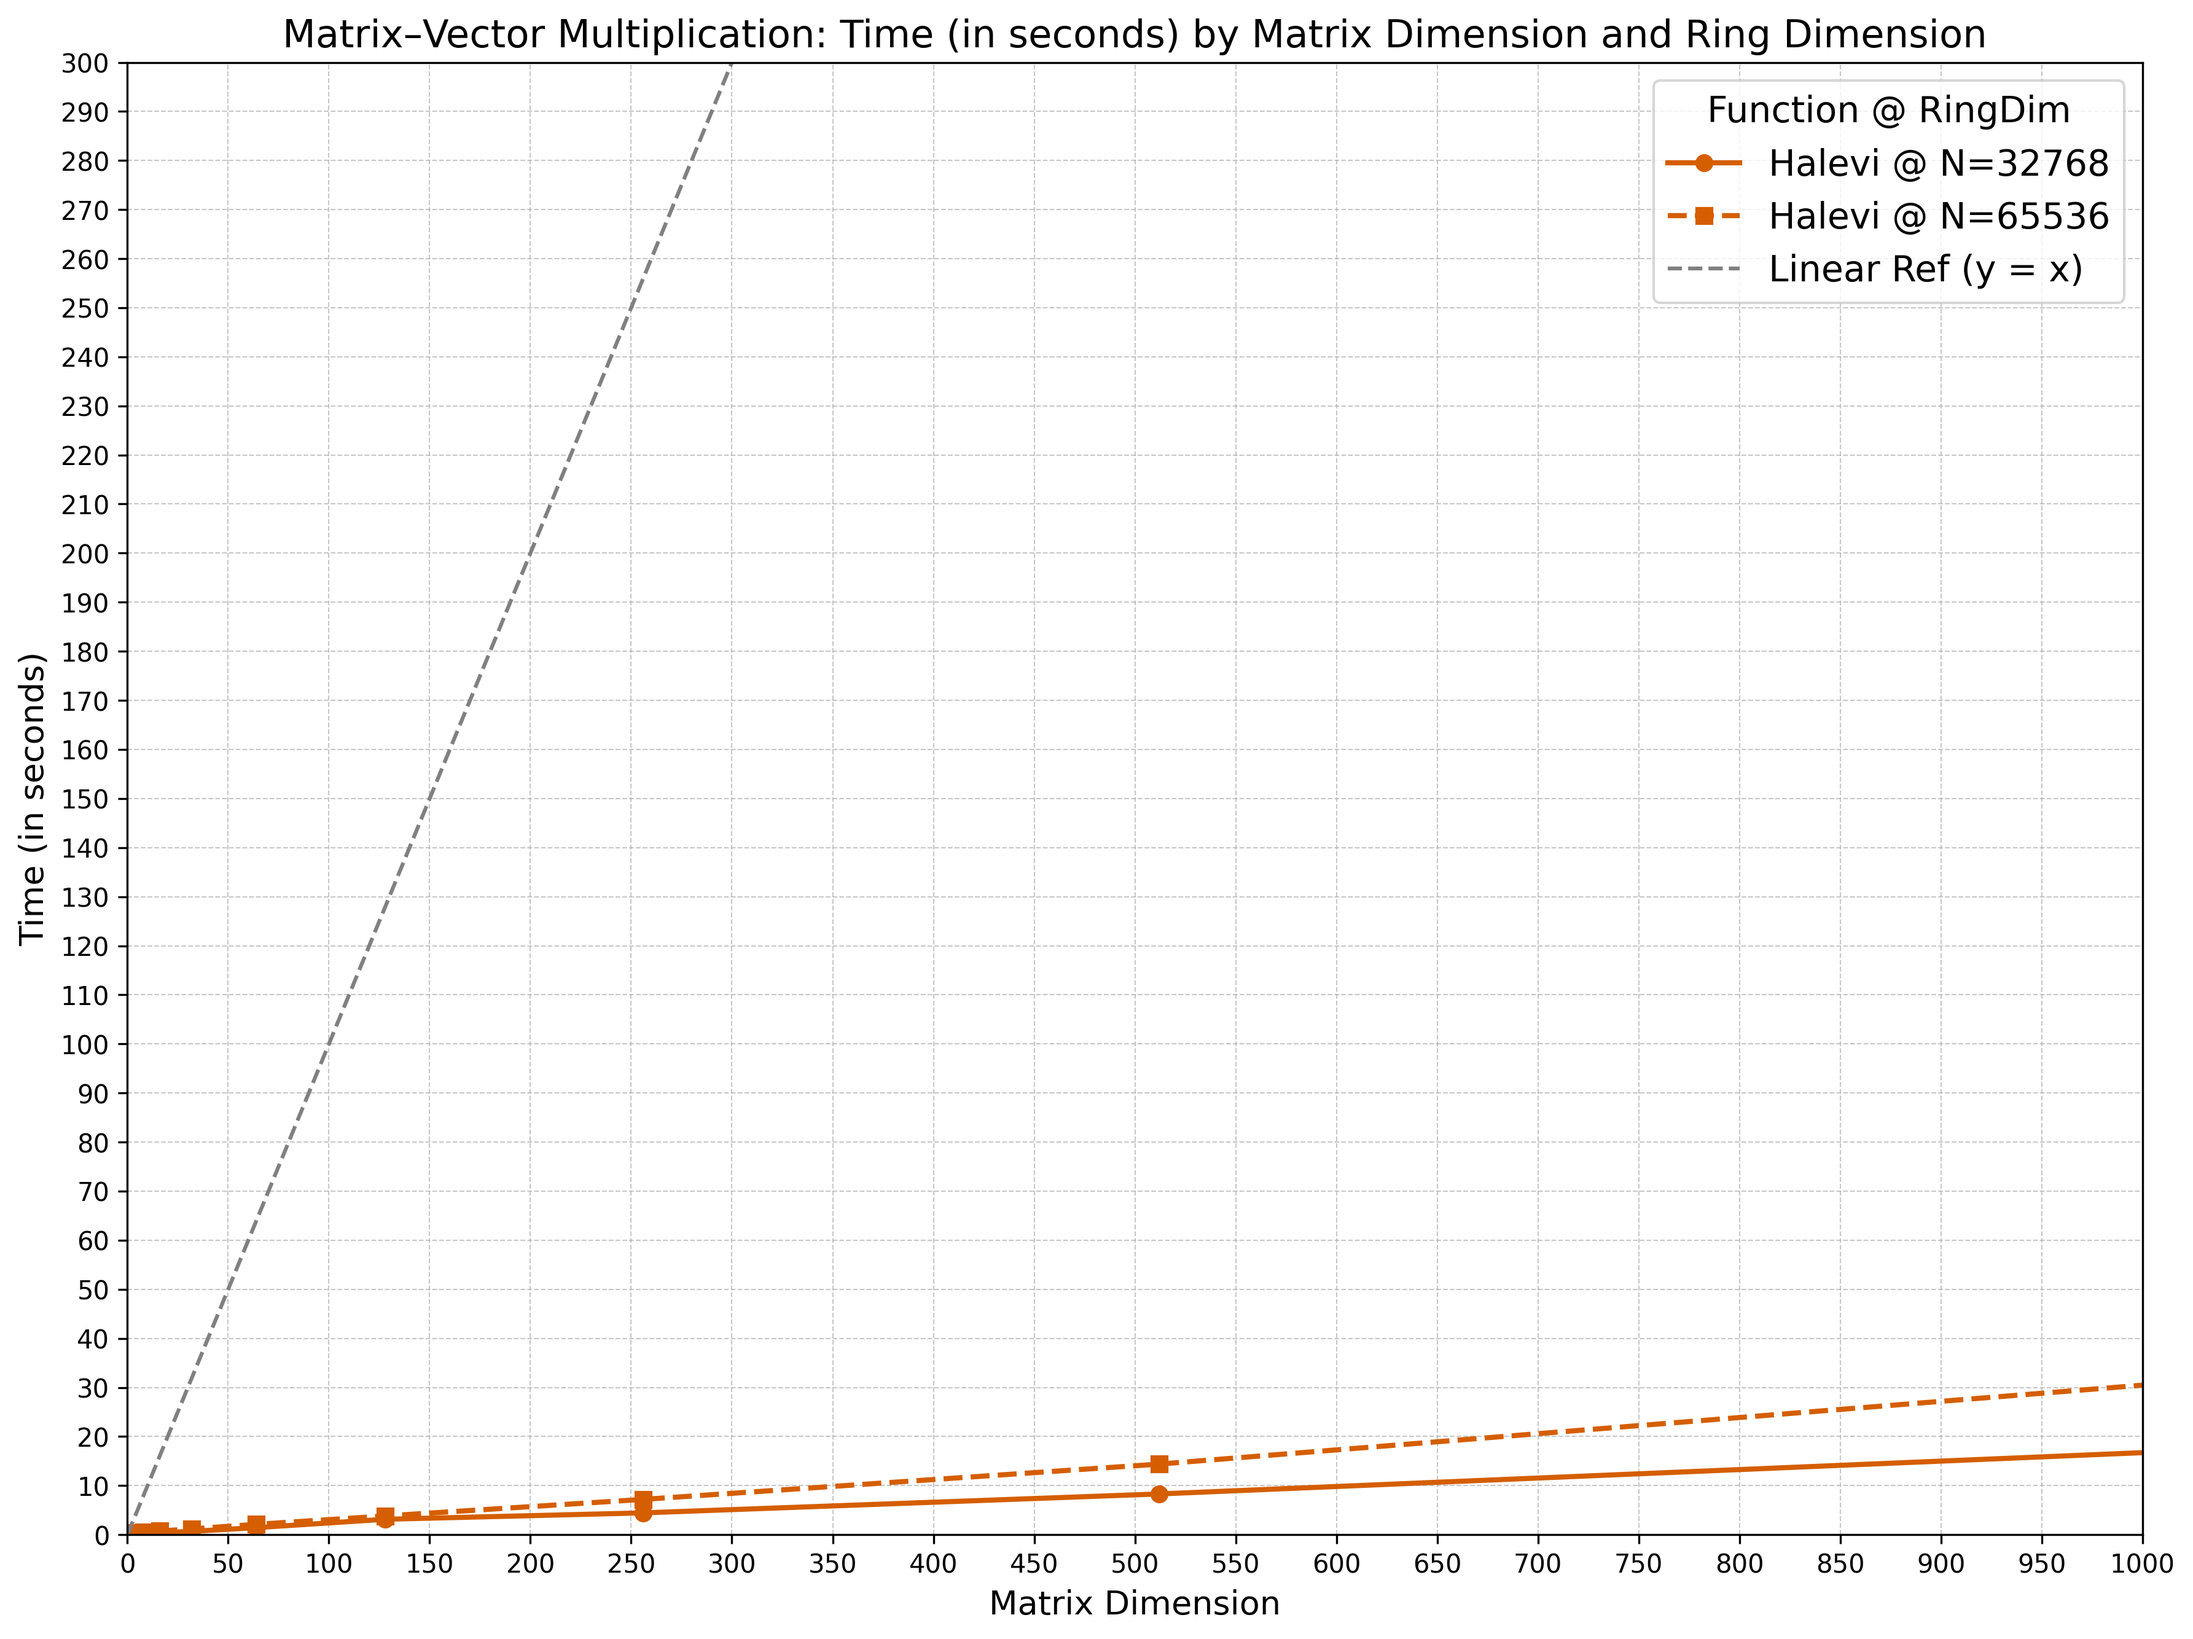
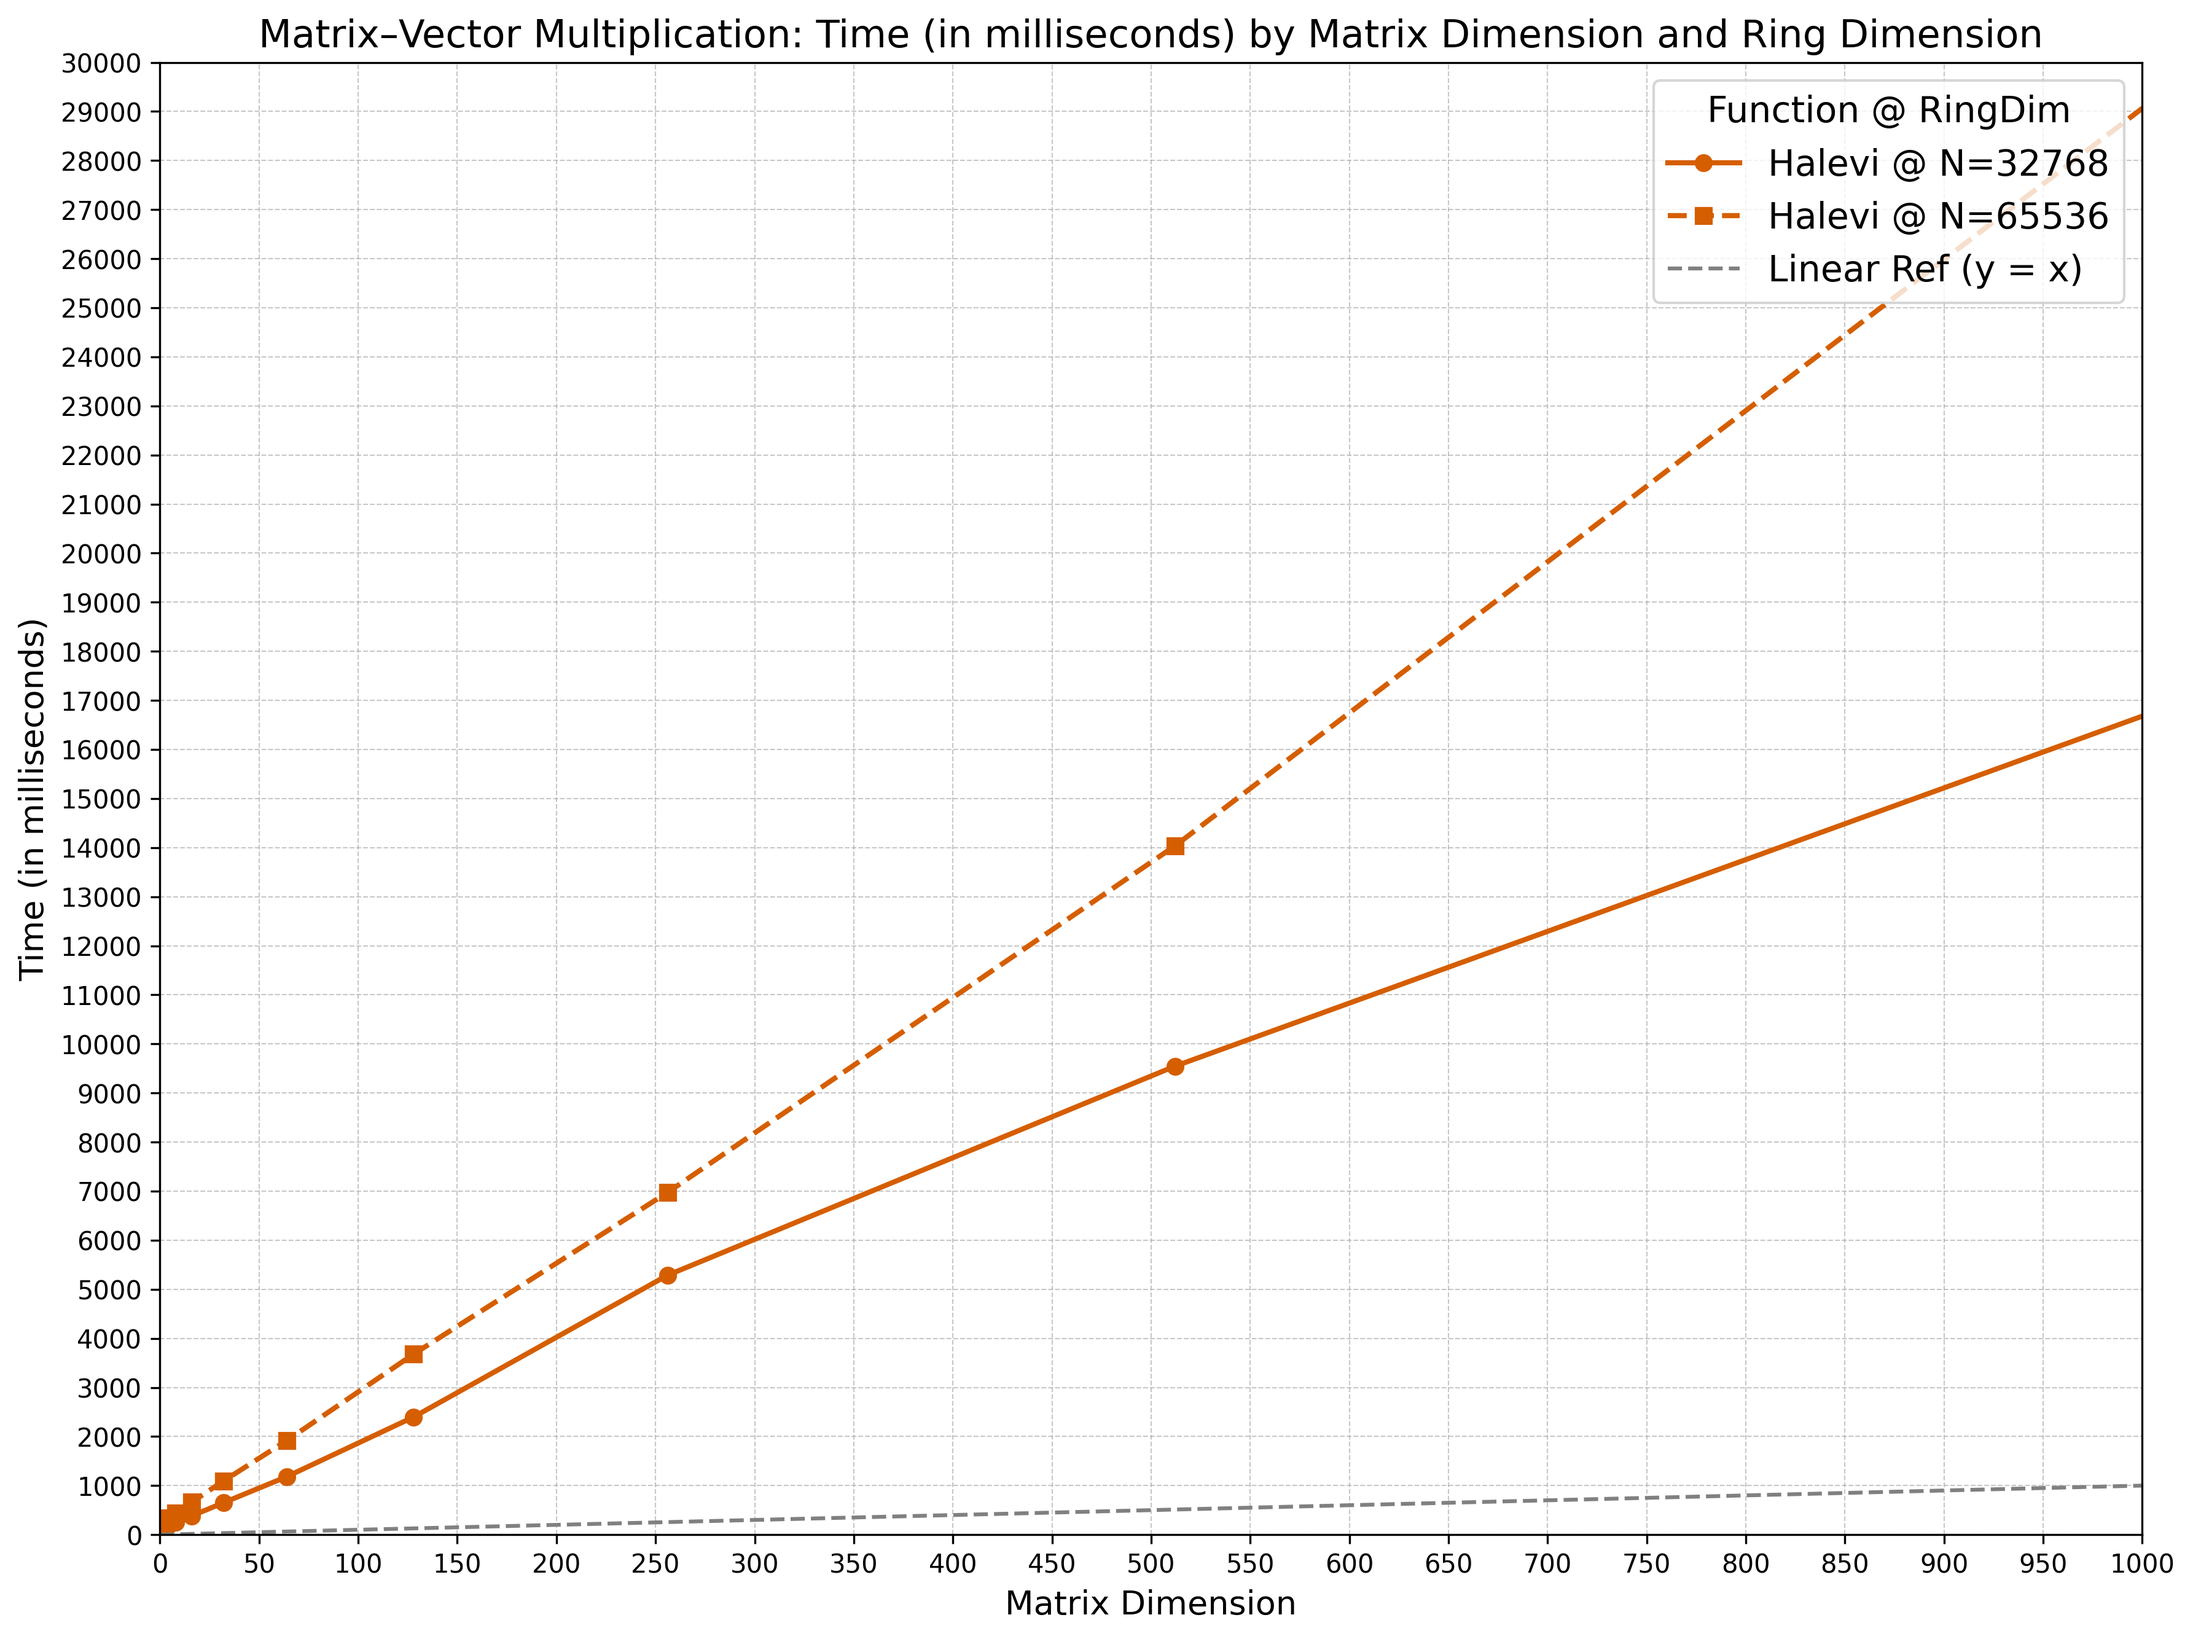
updating plot.py

diff --git a/bench/matvec/plot.py b/bench/matvec/plot.py
@@ -34,7 +34,8 @@ def load_and_prepare_data(csv_path):
 
     df["ring_dim"] = df["ring_dim"].astype(str)
     df["matrix_size"] = df["matrix_size"].astype(int)
-    df["time_s"] = df["time_ms"].astype(float) / 1000.0
+    # df["time_s"] = df["time_ms"].astype(float) / 1000.0
+    df["time_s"] = df["time_ms"].astype(float)
     return df
 
 # ---------- Style Mapping ----------
@@ -64,9 +65,9 @@ def plot_equal_linear(df, output_path):
 
     # Fixed axis limits
     ax.set_xlim(0, 1000)
-    ax.set_ylim(0, 300)
+    ax.set_ylim(0, 30000)
     ticks_x = np.arange(0, 1001, 50)
-    ticks_y = np.arange(0, 301, 10)
+    ticks_y = np.arange(0, 30001, 1000)
     ax.set_xticks(ticks_x)
     ax.set_yticks(ticks_y)
 
@@ -81,9 +82,9 @@ def plot_equal_linear(df, output_path):
 
     # Labels and legend
     ax.set_xlabel("Matrix Dimension", fontsize=13)
-    ax.set_ylabel("Time (in seconds)", fontsize=13)
+    ax.set_ylabel("Time (in milliseconds)", fontsize=13)
     ax.set_title(
-        "Matrix–Vector Multiplication: Time (in seconds) by Matrix Dimension and Ring Dimension",
+        "Matrix–Vector Multiplication: Time (in milliseconds) by Matrix Dimension and Ring Dimension",
         fontsize=15
     )
     ax.legend(title="Function @ RingDim", loc="upper right", title_fontsize=14, fontsize=14)
@@ -100,5 +101,3 @@ def plot_equal_linear(df, output_path):
 if __name__ == "__main__":
     df = load_and_prepare_data(CSV_PATH)
     plot_equal_linear(df, OUTPUT_PATH)
-
-

diff --git a/src/utils/helper_utils.cpp b/src/utils/helper_utils.cpp
@@ -94,7 +94,7 @@ namespace utils {
                 "Unknown";
 
             std::cout << "🔒  Security Level:    " << std::setw(18) << levelStr << "\n";
-            std::cout << "🎚  Scaling Technique: " << std::setw(18) << static_cast<int>(cryptoParamsCKKS->GetScalingTechnique()) << "\n";
+            std::cout << "🎚 Scaling Technique: " << std::setw(18) << static_cast<int>(cryptoParamsCKKS->GetScalingTechnique()) << "\n";
         } else {
             std::cout << "⚠ CKKS-specific parameters unavailable.\n";
         }
